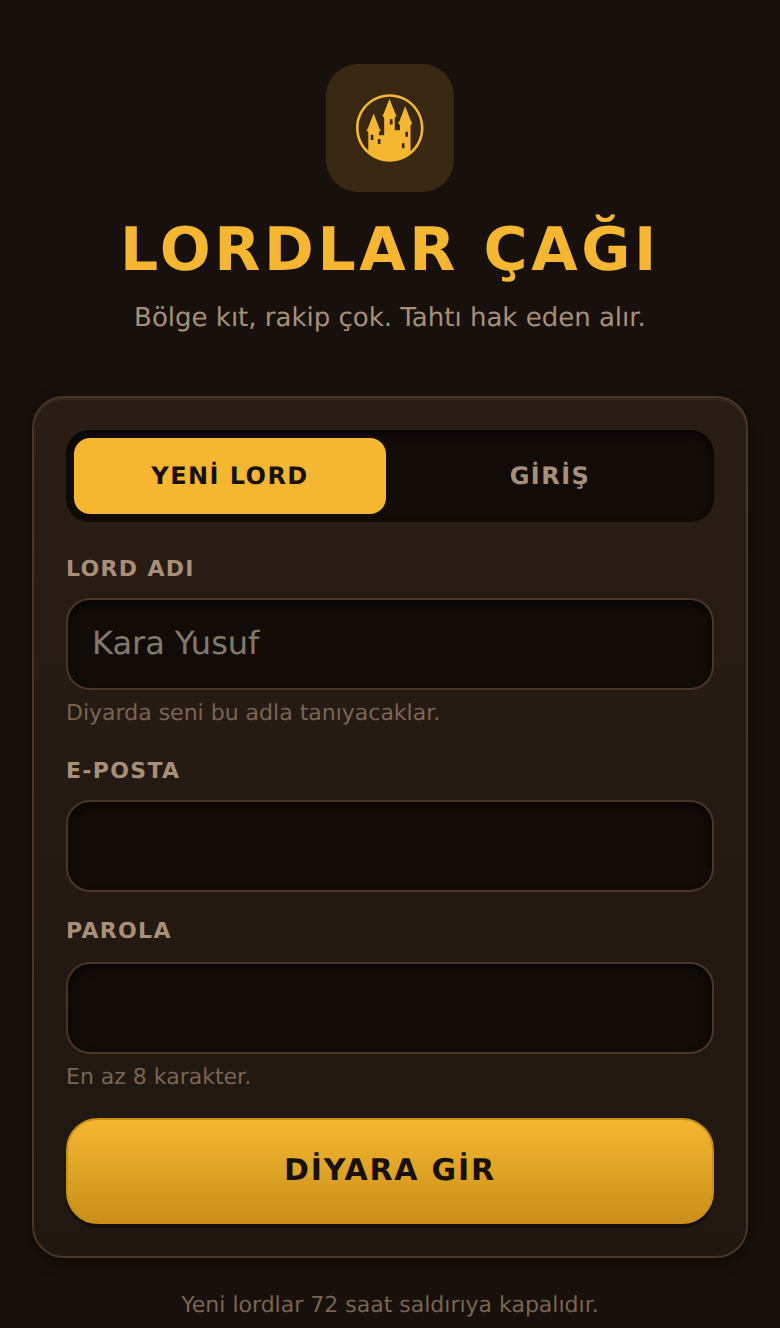
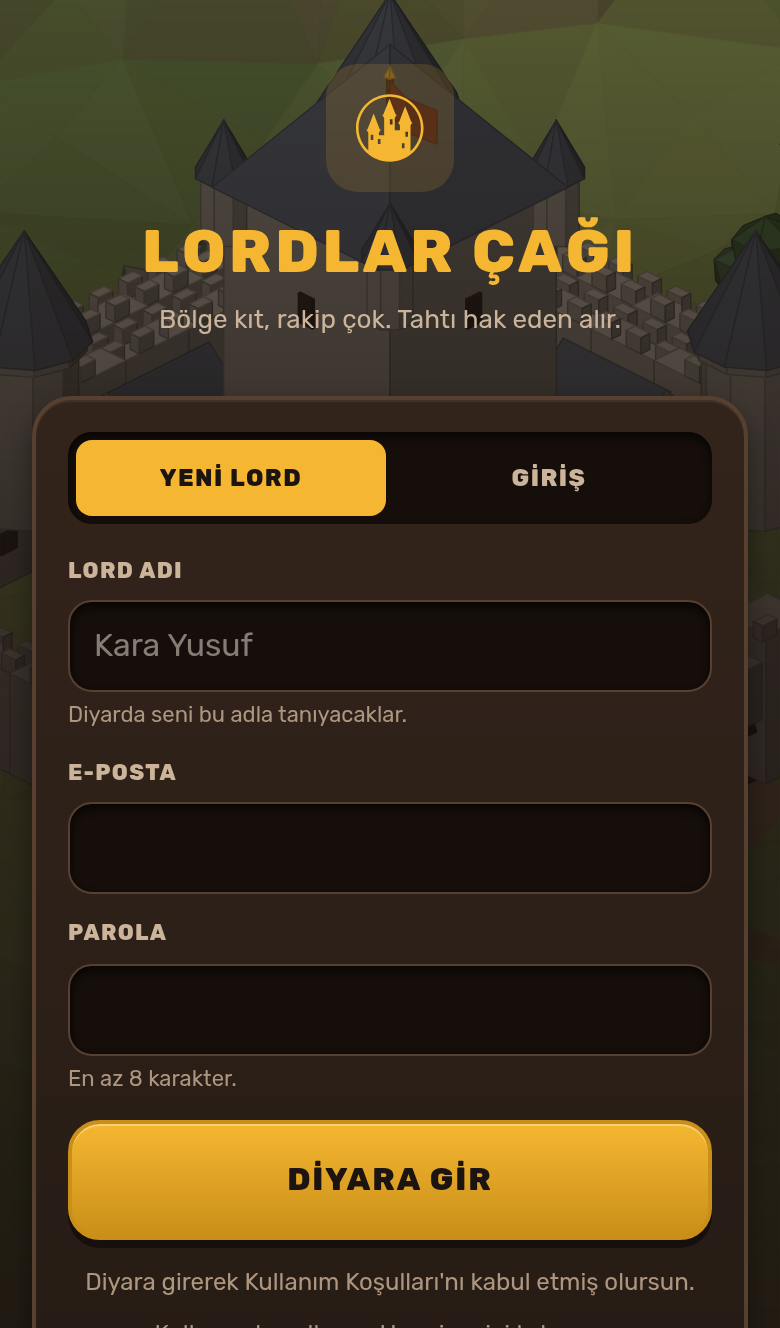
README ekran görüntüleri yenilendi
Eski dokuz görüntü altıgen harita ve menü sekmesi döneminden kalmıştı;
şimdi koddan çizilen görsellerle bugünkü arayüzü gösteriyorlar: giriş
manzarası, yerleşim haritası, Kışla şeridi, dört medeniyetli dünya
haritası, bölge afişli alt sayfa, Demirhane, lord figürü, generaller ve
sıralama. Boyut aynı (780×1328, iPhone 13 2x), kayıpsız PNG — 256
renge indirmek haritadaki medeniyet renklerini kaydırıyordu.

Alt yazılardan ikisi görüntüyle uyuşmuyordu: dünya 121 bölge ve dört
medeniyet, sıralama dört liste.

Claude-Session: https://claude.ai/code/session_01ErYGbKMhuufVnb7xaJpob9

diff --git a/README.md b/README.md
@@ -47,11 +47,11 @@ Oyun **sadece mobil**. Masaüstü düzeni yok.
 |                                              |                                             |                                                |
 | -------------------------------------------- | ------------------------------------------- | ---------------------------------------------- |
 | ![Şehir](docs/gorseller/1-malikane.png)      | ![Ordu](docs/gorseller/2-kisla.png)         | ![Dünya](docs/gorseller/3-harita.png)          |
-| **Şehir** — ana sayfa, yerleşim haritası     | **Ordu** — birim kartları, komuta, erzak    | **Dünya** — 61 bölge, resimli zemin            |
+| **Şehir** — ana sayfa, yerleşim haritası     | **Ordu** — birim kartları, komuta, erzak    | **Dünya** — 121 bölge, dört medeniyet          |
 | ![Demirhane](docs/gorseller/4-demirhane.png) | ![Bölge](docs/gorseller/5-harita-bolge.png) | ![Generaller](docs/gorseller/8-generaller.png) |
 | **Demirhane** — üretim, envanter, donanım    | **Bölge** — alt sayfada saldırı ve garnizon | **Generaller** — 12 kişilik kadro              |
 | ![Lord](docs/gorseller/7-lord.png)           | ![Sıralama](docs/gorseller/9-siralama.png)  | ![Giriş](docs/gorseller/0-giris.png)           |
-| **Lord** — nitelikler, ekipman, savaş gücü   | **Sıralama** — üç liste                     | **Giriş**                                      |
+| **Lord** — nitelikler, ekipman, savaş gücü   | **Sıralama** — dört liste                   | **Giriş**                                      |
 
 ## Kendin oyna
 
